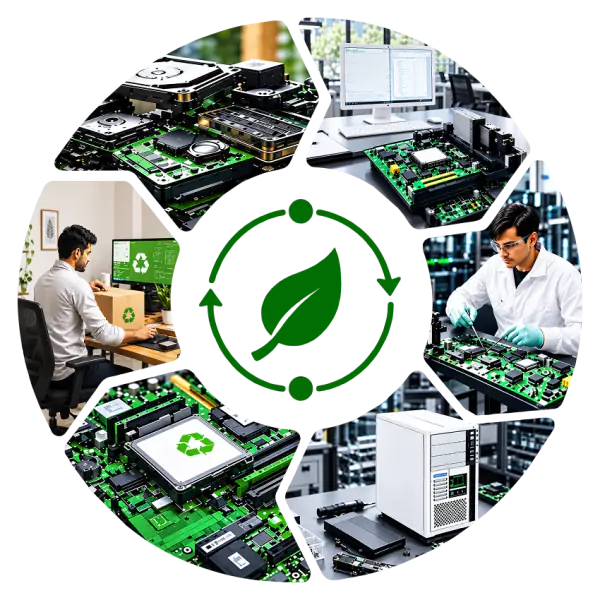
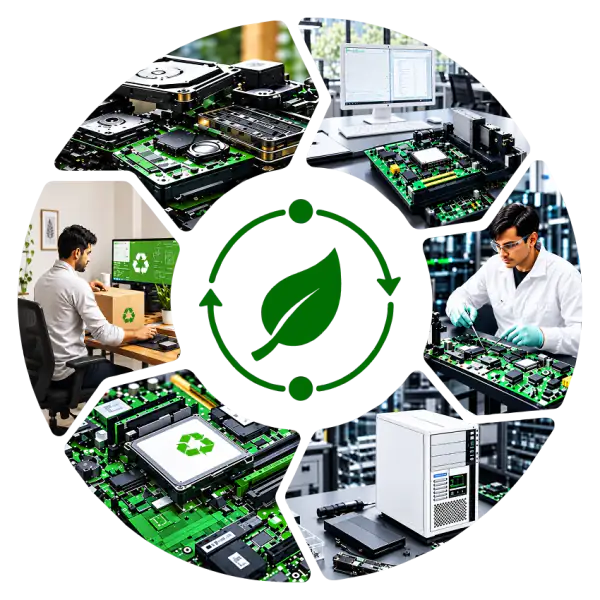
Tune responsive image sizes and compression
Lighthouse still flagged the hero donut and section-2 map as larger
than displayed. Rendered widths measured in headless Chrome showed the
sizes attributes were off (the map is near full width on tablet, the
donut is ~44vw between 1025 and 1150px) and the variant steps were too
coarse.

- sizes now match measured widths per breakpoint on both pages
- More variants: donut 300/400/500/600/760/850w, map 380/480/700/940/1254w
- Stronger compression: donut q62, map q68 (visually unchanged)
- Drop the unused map 800w variant

At 1x DPR every viewport now gets the closest size (e.g. 500px donut ->
500w, 467px map -> 480w). HiDPI screens still get ~DPR x the pixels,
which is intended.

Changed region(s): [[0.63, 0.27, 0.66, 0.3]]

diff --git a/index.html b/index.html
@@ -102,11 +102,14 @@
             <img
               src="assets/maximizing-value-across-the-electronics-600.webp"
               srcset="
+                assets/maximizing-value-across-the-electronics-300.webp 300w,
                 assets/maximizing-value-across-the-electronics-400.webp 400w,
+                assets/maximizing-value-across-the-electronics-500.webp 500w,
                 assets/maximizing-value-across-the-electronics-600.webp 600w,
+                assets/maximizing-value-across-the-electronics-760.webp 760w,
                 assets/maximizing-value-across-the-electronics-850.webp 850w
               "
-              sizes="(max-width: 767px) 300px, (max-width: 1024px) 380px, 500px"
+              sizes="(max-width: 767px) 300px, (max-width: 1024px) 380px, min(500px, 44vw)"
               width="850"
               height="850"
               fetchpriority="high"
@@ -146,13 +149,15 @@
             </div>
             <div class="future-map-frame">
               <img
-                src="assets/image-for-section-2-3-800.webp"
+                src="assets/image-for-section-2-3-700.webp"
                 srcset="
+                  assets/image-for-section-2-3-380.webp 380w,
                   assets/image-for-section-2-3-480.webp 480w,
-                  assets/image-for-section-2-3-800.webp 800w,
+                  assets/image-for-section-2-3-700.webp 700w,
+                  assets/image-for-section-2-3-940.webp 940w,
                   assets/image-for-section-2-3-1254.webp 1254w
                 "
-                sizes="(max-width: 767px) calc(100vw - 2rem), 460px"
+                sizes="(max-width: 767px) calc(100vw - 48px), (max-width: 1024px) calc(100vw - 93px), min(467px, 36.5vw)"
                 width="1254"
                 height="712"
                 loading="lazy"

diff --git a/solutions/electronics-value-recovery/index.html b/solutions/electronics-value-recovery/index.html
@@ -214,11 +214,14 @@
       <img
         src="../../assets/maximizing-value-across-the-electronics-600.webp"
         srcset="
+          ../../assets/maximizing-value-across-the-electronics-300.webp 300w,
           ../../assets/maximizing-value-across-the-electronics-400.webp 400w,
+          ../../assets/maximizing-value-across-the-electronics-500.webp 500w,
           ../../assets/maximizing-value-across-the-electronics-600.webp 600w,
+          ../../assets/maximizing-value-across-the-electronics-760.webp 760w,
           ../../assets/maximizing-value-across-the-electronics-850.webp 850w
         "
-        sizes="(max-width: 767px) 300px, (max-width: 1024px) 380px, 500px"
+        sizes="(max-width: 480px) 300px, (max-width: 768px) 380px, 500px"
         width="850"
         height="850"
         fetchpriority="high"
